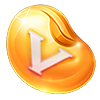
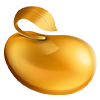
豆 币

diff --git a/lib/pages/mine/qianbao/wallet_more_zhichu_page.dart b/lib/pages/mine/qianbao/wallet_more_zhichu_page.dart
@@ -66,7 +66,7 @@ class _WalletMoreZhichuPageState extends State<WalletMoreZhichuPage> {
       case 1:
         leixing = '充值';
         if(list[i].curType == 1){
-          showImg = 'assets/images/wallet_d.png';
+          showImg = 'assets/images/mine_wallet_dd.png';//'assets/images/wallet_d.png';
         }else{
           showImg = 'assets/images/wallet_z.png';
         }
@@ -89,7 +89,7 @@ class _WalletMoreZhichuPageState extends State<WalletMoreZhichuPage> {
         break;
       case 6:
         if(list[i].curType == 1){
-          showImg = 'assets/images/wallet_d.png';
+          showImg = 'assets/images/mine_wallet_dd.png';//'assets/images/wallet_d.png';
         }else if(list[i].curType == 2){
           showImg = 'assets/images/wallet_z.png';
         }else{
@@ -99,7 +99,7 @@ class _WalletMoreZhichuPageState extends State<WalletMoreZhichuPage> {
       case 7:
         leixing = '兑换';
         if(list[i].curType == 1){
-          showImg = 'assets/images/wallet_d.png';
+          showImg = 'assets/images/mine_wallet_dd.png';//'assets/images/wallet_d.png';
         }else if(list[i].curType == 2){
           showImg = 'assets/images/wallet_z.png';
         }else{
@@ -109,7 +109,7 @@ class _WalletMoreZhichuPageState extends State<WalletMoreZhichuPage> {
       case 8:
         leixing = '装扮';
         if(list[i].curType == 1){
-          showImg = 'assets/images/wallet_d.png';
+          showImg = 'assets/images/mine_wallet_dd.png';//'assets/images/wallet_d.png';
         }else{
           showImg = 'assets/images/wallet_z.png';
         }
@@ -117,7 +117,7 @@ class _WalletMoreZhichuPageState extends State<WalletMoreZhichuPage> {
       case 9:
         leixing = '个人礼物分润';
         if(list[i].curType == 1){
-          showImg = 'assets/images/wallet_d.png';
+          showImg = 'assets/images/mine_wallet_dd.png';//'assets/images/wallet_d.png';
         }else{
           showImg = 'assets/images/wallet_z.png';
         }
@@ -129,7 +129,7 @@ class _WalletMoreZhichuPageState extends State<WalletMoreZhichuPage> {
       case 12:
         leixing = '提现申请冻结金';
         if(list[i].curType == 1){
-          showImg = 'assets/images/wallet_d.png';
+          showImg = 'assets/images/mine_wallet_dd.png';//'assets/images/wallet_d.png';
         }else if(list[i].curType == 2){
           showImg = 'assets/images/wallet_z.png';
         }else{

diff --git a/lib/pages/mine/qianbao/wallet_more_shouru_page.dart b/lib/pages/mine/qianbao/wallet_more_shouru_page.dart
@@ -67,7 +67,7 @@ class _WalletMoreShouruPageState extends State<WalletMoreShouruPage> {
       case 1:
         leixing = '充值';
         if (list[i].curType == 1) {
-          showImg = 'assets/images/wallet_d.png';
+          showImg = 'assets/images/mine_wallet_dd.png';//'assets/images/wallet_d.png';
         } else {
           showImg = 'assets/images/wallet_z.png';
         }
@@ -91,7 +91,7 @@ class _WalletMoreShouruPageState extends State<WalletMoreShouruPage> {
       case 6:
         if(list[i].curType == 1){
           leixing = 'V豆提现失败充回';
-          showImg = 'assets/images/wallet_d.png';
+          showImg = 'assets/images/mine_wallet_dd.png';//'assets/images/wallet_d.png';
         }else if(list[i].curType == 2){
           leixing = '钻石提现失败充回';
           showImg = 'assets/images/wallet_z.png';
@@ -103,7 +103,7 @@ class _WalletMoreShouruPageState extends State<WalletMoreShouruPage> {
       case 7:
         leixing = '兑换';
         if(list[i].curType == 1){
-          showImg = 'assets/images/wallet_d.png';
+          showImg = 'assets/images/mine_wallet_dd.png';//'assets/images/wallet_d.png';
         }else if(list[i].curType == 2){
           showImg = 'assets/images/wallet_z.png';
         }else{
@@ -113,7 +113,7 @@ class _WalletMoreShouruPageState extends State<WalletMoreShouruPage> {
       case 8:
         leixing = '装扮';
         if (list[i].curType == 1) {
-          showImg = 'assets/images/wallet_d.png';
+          showImg = 'assets/images/mine_wallet_dd.png';//'assets/images/wallet_d.png';
         } else {
           showImg = 'assets/images/wallet_z.png';
         }
